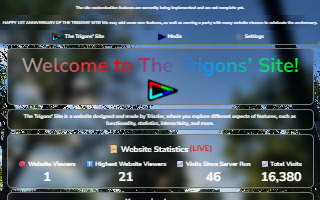
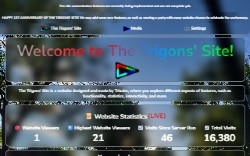
u

diff --git a/index.html b/index.html
@@ -57,6 +57,9 @@
       background-color: rgba(255, 255, 255, 0.7);
       border-radius: 20px;
       max-width: 1600px;
+      margin: 10px auto;
+      padding: 10px;
+      box-sizing: border-box;
       background-image: linear-gradient(180deg, transparent, rgba(0, 0, 0, 0.15));
     }
 
@@ -76,9 +79,134 @@
       text-align: center;
     }
 
+    .SiteButton {
+      appearance: none;
+      border: 1px solid black;
+      color: white;
+      background-color: #aaaaaa;
+      background-color: rgba(255, 255, 255, 0.25);
+      border-radius: 20px;
+      overflow: hidden;
+      padding: 10px;
+      box-sizing: border-box;
+      transition: all 0.05s ease-out;
+    }
+
+    .SiteButton:hover,
+    .SiteButton:focus-visible {
+      background-color: #888888;
+      background-color: rgba(175, 175, 175, 1);
+    }
+
+    .SiteButton:focus-visible {
+      transition: none;
+    }
+
+    .SiteButton:active {
+      background-color: #666666;
+      background-color: rgba(145, 145, 145, 1);
+    }
+
+    .SiteButton img {
+      border-radius: 20px;
+    }
+
+    @media (prefers-color-scheme: dark) {
+      .SiteButton {
+        border-color: white;
+        background-color: #555555;
+        background-color: rgba(0, 0, 0, 0.25);
+      }
+
+      .SiteButton:hover,
+      .SiteButton:focus-visible {
+        background-color: #777777;
+        background-color: rgba(80, 80, 80, 1);
+      }
+
+      .SiteButton:active {
+        background-color: #999999;
+        background-color: rgba(110, 110, 110, 1);
+      }
+    }
+
+    .SiteButton[disabled] {
+      border-color: gray;
+      color: gray;
+    }
+
+    .SiteButton[disabled] img {
+      filter: grayscale();
+    }
+
     .SiteButton p {
       margin: 5px 0;
       font-size: 24px;
+    }
+
+    .SiteButton .SiteName {
+      font-weight: bold;
+    }
+
+    .SiteButton .SiteStatus {
+      font-size: 20px;
+      margin-bottom: 0;
+    }
+
+    #Footer,
+    #Footer img {
+      vertical-align: middle;
+      font-weight: bold;
+    }
+
+    .Bold {
+      font-weight: bold;
+    }
+
+    #FetchStatus {
+      margin-bottom: 0;
+    }
+
+    .Red {
+      color: red;
+    }
+
+    .Yellow {
+      color: yellow;
+    }
+
+    .BgRed {
+      background-color: red;
+    }
+
+    .BgYellow {
+      background-color: yellow;
+    }
+
+    .BgLime {
+      background-color: lime;
+    }
+
+    @media (prefers-color-scheme: dark) {
+      .Red {
+        color: #aa0000;
+      }
+
+      .Yellow {
+        color: #aaaa00;
+      }
+
+      .BgRed {
+        background-color: #aa0000;
+      }
+
+      .BgYellow {
+        background-color: #aaaa00;
+      }
+
+      .BgLime {
+        background-color: #00aa00;
+      }
     }
   </style>
 </head>
@@ -89,13 +217,106 @@
     <p>The page to access my local websites via temporary URLs.</p>
   </div>
   <div class="Section" id="Websites" role="main">
-    <button class="SiteButton">
-      <img src="TheTrigonsSite.jpg">
-      <p>The Trigons' Site</p>
-      <p class="SiteStatus">Loading...</p>
+    <button class="SiteButton" disabled>
+      <img src="TheTrigonsSite.jpg" width="250" height="156">
+      <p class="SiteName">The Trigons' Site</p>
+      <p class="SiteStatus">Offline</p>
     </button>
+    <p><span class="Bold">Status:</span> <span id="FetchStatus">Fetching...</span></p>
   </div>
-  <div class="Section" role="contentinfo" id="Footer">(C) Triazler 2026</div>
+  <div class="Section" role="contentinfo" id="Footer"><img src="favicon.ico"> (C) Triazler 2026</div>
+  <script>
+    var Websites = document.getElementById("Websites")
+    var FetchStatus = document.getElementById("FetchStatus")
+
+    var ReqMode = window.fetch ? "Fetch" : (window.XMLHttpRequest ? "XHR" : null)
+    var TextProp = typeof document.body.textContent === "string" ? "textContent" : "innerText"
+    var FetchingLinks = false
+
+    function NewHttpReq(URL, Callback) {
+      try {
+        if (ReqMode === "Fetch") {
+          fetch(URL).then(function (Res) {
+            Res.text().then(function (Body) {
+              Callback(true, { "Body": Body, "Status": Res.status, "StatusText": Res.statusText, "OK": Res.ok })
+            })["catch"](function (E) {
+              Callback(true, { "Body": "", "Status": Res.status, "StatusText": Res.statusText, "OK": Res.ok })
+            })
+          })["catch"](function (E) {
+            Callback(false, { "Err": E, "ErrType": 1 })
+          })
+        } else if (ReqMode === "XHR") {
+          var XHR = new XMLHttpRequest()
+          XHR.open("GET", URL, true)
+          XHR.onreadystatechange = function () {
+            if (XHR.readyState === 4) {
+              if (XHR.status >= 200 && XHR.status < 600) {
+                Callback(true, { "Body": XHR.responseText, "Status": XHR.status, "StatusText": XHR.statusText, "OK": XHR.status >= 200 && XHR.status < 400 })
+              } else {
+                Callback(false, { "ErrType": 1, "Err": XHR.status + (XHR.statusText ? "(" + XHR.statusText + ")" : "") })
+              }
+            }
+          }
+        } else {
+          Callback(false, { "ErrType": 3 })
+          return false
+        }
+      } catch (E) {
+        Callback(false, { "Err": E, "ErrType": 2 })
+      }
+    }
+
+    function FetchLinks() {
+      if (FetchingLinks) return;
+      var URL = "https://firestore.googleapis.com/v1/projects/cloudflare-tunnel-links/databases/(default)/documents/Links/Links"
+
+      FetchingLinks = true
+      FetchStatus[TextProp] = "Fetching..."
+      FetchStatus.className = ""
+
+      function Complete(Fetched, Res) {
+        var ErrTypeData = {
+          "1": {"Class": "Red", "Msg": "Failed to connect."},
+          "2": {"Class": "Red", "Msg": "Failed to update because of an internal error."},
+          "3": {"Class": "Yellow", "Msg": "Your browser does not support making HTTP requests."}
+        }
+
+        if (Fetched) {
+          try {
+            if (Res.OK) {
+              var Data = JSON.parse(Res.Body)
+              document.write(JSON.stringify(Data))
+              FetchStatus[TextProp] = "Fetched"
+            } else {
+              FetchStatus[TextProp] = "Fetched with error status " + Res.Status + (Res.StatusText ? " (" + Res.StatusText + ")" : "")
+            }
+          } catch (E) {
+            Complete(false, {"ErrType": 2, "Err": E})
+          }
+        } else if (typeof Res === "object") {
+          var ErrData = ErrTypeData[Res["ErrType"].toString()]
+          FetchStatus[TextProp] = (ErrData.Msg || "Failed to Fetch.") + (Res.Err ? " (" + Res.Err + ")" : "")
+          FetchStatus.className = ErrData.Class || ""
+
+          if (Res["ErrType"] === 1) {
+            setTimeout(FetchLinks, 5000)
+          }
+        } else {
+          FetchStatus[TextProp] = "Failed to Fetch."
+          FetchStatus.className = ""
+        }
+
+        FetchingLinks = false
+      }
+
+      NewHttpReq(URL, Complete)
+    }
+
+    if (ReqMode) {
+      FetchLinks()
+      setInterval(FetchLinks, 60000)
+    }
+  </script>
 </body>
 
 </html>
